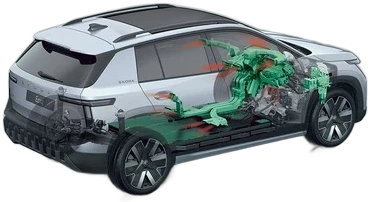
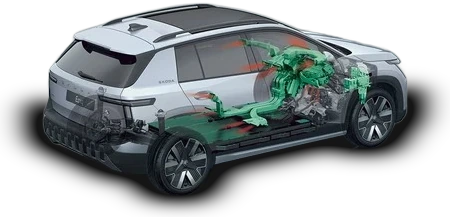
Epiq-Bilder: Bild 12 (Akku/Plattform) freigestellt; künstlicher Bodenschatten für 7–12 (nicht bei Maßbildern, Motor, Kofferraum); Karussell-Werte angepasst
Claude-Session: https://claude.ai/code/session_01AEp6y4YjJFmESYQ6H67tzx

diff --git a/app.js b/app.js
@@ -2738,8 +2738,8 @@ const HERO_IMGS = [{ name: 1, src: '/Bilder/Enyaq/hero/1.webp', aspect: 1.7188, 
   { name: 9, src: '/Bilder/Enyaq/hero/9.webp', aspect: 2.067, extra: 0, cut: true, pad: true }];   // pad: etwas Abstand links/rechts   // Schnittbild mit Maßen: Bemaßung hell umgefärbt, Auto freigestellt (volle Breite, zum Lesen antippen → Vollbild)
 /* Bilder je Fahrzeugprofil (ohne Eintrag: Enyaq-Bilder oben). Epiq: Bilder/Epiq/hero, aufbereitet mit tools/epiq_bilder.py */
 const EPQ = (n, aspect, o = {}) => ({ name: n, src: '/Bilder/Epiq/hero/' + n + '.webp', aspect, extra: 0, noHd: true, ...o });
-const CAR_HERO = { epiq55: [EPQ(2, 1.9536, { extra: 0.03 }), EPQ(9, 1.6176), EPQ(10, 2.4768), EPQ(11, 1.7839), EPQ(3, 1.1833, { cut: true }), EPQ(6, 1.9864, { cut: true }),
-  EPQ(1, 2.1814, { cut: true }), EPQ(5, 2.2, { pad: true }), EPQ(7, 1.8317, { tech: true }), EPQ(8, 1.7594, { tech: true }), EPQ(4, 1.3417, { tech: true })] };   // Reihenfolge im Karussell
+const CAR_HERO = { epiq55: [EPQ(2, 1.9536, { extra: 0.03 }), EPQ(9, 1.8603, { extra: 0.0754 }), EPQ(10, 2.6884, { extra: 0.0854 }), EPQ(11, 2.0326, { extra: 0.0793 }), EPQ(3, 1.1833, { cut: true }),
+  EPQ(6, 1.9864, { cut: true }), EPQ(1, 2.1814, { cut: true }), EPQ(5, 2.2, { pad: true }), EPQ(12, 1.5349, { tech: true }), EPQ(7, 2.0737, { tech: true }), EPQ(8, 1.9696, { tech: true }), EPQ(4, 1.3417, { tech: true })] };   // Reihenfolge im Karussell
 const carAutoN = () => { const v = Number(getSettings().carN); return Number.isInteger(v) && v >= 1 && v <= HERO_IMGS.length ? v : 6; };            // Einstellung: so viele Bilder wechseln automatisch
 const carAutoMs = () => { const v = Number(getSettings().carSec); return (Number.isFinite(v) && v >= 5 && v <= 600 ? v : 30) * 1000; };   // Bilder/Enyaq/Enyaq1, 2, _4 (Akku-Schnitt), 3, 4, 5 (unten bleiben 3 Punkte als Deko); automatischer Wechsel alle 30 Sekunden
 async function initCarousel() {

diff --git a/src/05-startseite-banner.js b/src/05-startseite-banner.js
@@ -128,8 +128,8 @@ const HERO_IMGS = [{ name: 1, src: '/Bilder/Enyaq/hero/1.webp', aspect: 1.7188, 
   { name: 9, src: '/Bilder/Enyaq/hero/9.webp', aspect: 2.067, extra: 0, cut: true, pad: true }];   // pad: etwas Abstand links/rechts   // Schnittbild mit Maßen: Bemaßung hell umgefärbt, Auto freigestellt (volle Breite, zum Lesen antippen → Vollbild)
 /* Bilder je Fahrzeugprofil (ohne Eintrag: Enyaq-Bilder oben). Epiq: Bilder/Epiq/hero, aufbereitet mit tools/epiq_bilder.py */
 const EPQ = (n, aspect, o = {}) => ({ name: n, src: '/Bilder/Epiq/hero/' + n + '.webp', aspect, extra: 0, noHd: true, ...o });
-const CAR_HERO = { epiq55: [EPQ(2, 1.9536, { extra: 0.03 }), EPQ(9, 1.6176), EPQ(10, 2.4768), EPQ(11, 1.7839), EPQ(3, 1.1833, { cut: true }), EPQ(6, 1.9864, { cut: true }),
-  EPQ(1, 2.1814, { cut: true }), EPQ(5, 2.2, { pad: true }), EPQ(7, 1.8317, { tech: true }), EPQ(8, 1.7594, { tech: true }), EPQ(4, 1.3417, { tech: true })] };   // Reihenfolge im Karussell
+const CAR_HERO = { epiq55: [EPQ(2, 1.9536, { extra: 0.03 }), EPQ(9, 1.8603, { extra: 0.0754 }), EPQ(10, 2.6884, { extra: 0.0854 }), EPQ(11, 2.0326, { extra: 0.0793 }), EPQ(3, 1.1833, { cut: true }),
+  EPQ(6, 1.9864, { cut: true }), EPQ(1, 2.1814, { cut: true }), EPQ(5, 2.2, { pad: true }), EPQ(12, 1.5349, { tech: true }), EPQ(7, 2.0737, { tech: true }), EPQ(8, 1.9696, { tech: true }), EPQ(4, 1.3417, { tech: true })] };   // Reihenfolge im Karussell
 const carAutoN = () => { const v = Number(getSettings().carN); return Number.isInteger(v) && v >= 1 && v <= HERO_IMGS.length ? v : 6; };            // Einstellung: so viele Bilder wechseln automatisch
 const carAutoMs = () => { const v = Number(getSettings().carSec); return (Number.isFinite(v) && v >= 5 && v <= 600 ? v : 30) * 1000; };   // Bilder/Enyaq/Enyaq1, 2, _4 (Akku-Schnitt), 3, 4, 5 (unten bleiben 3 Punkte als Deko); automatischer Wechsel alle 30 Sekunden
 async function initCarousel() {

diff --git a/index.html b/index.html
@@ -202,7 +202,7 @@
   @media (prefers-reduced-motion: reduce) { #bd-conf i, #bdg-conf i { animation: none; top: var(--y, 10%); } #bd-card, #bdg-card { animation: none; } }
 </style>
 <!-- Tailwind fertig gebaut (npm run css) – am Ende des Kopfs wie früher das CDN, damit die Reihenfolge der Regeln gleich bleibt -->
-<link rel="stylesheet" href="/app.css?v=243">
+<link rel="stylesheet" href="/app.css?v=244">
 </head>
 <body class="bg-black text-slate-100 min-h-screen">
 
@@ -1845,7 +1845,7 @@
   </div>
 </nav>
 
-<script src="/app.js?v=243"></script>   <!-- App-Logik: gebaut aus src/*.js (npm run js) -->
+<script src="/app.js?v=244"></script>   <!-- App-Logik: gebaut aus src/*.js (npm run js) -->
 <script type="module">
 /* Firebase (modular SDK). Die Konfiguration ist kein Geheimnis – geschützt wird über Auth + Firestore-Regeln. */
 import { initializeApp } from 'https://www.gstatic.com/firebasejs/10.14.1/firebase-app.js';

diff --git a/sw.js b/sw.js
@@ -5,11 +5,11 @@
  * - Die KI-Abfrage (/api/…) wird NIE gecacht und läuft immer übers Netz.
  * Bei größeren Änderungen am Cache-Konzept CACHE_VERSION erhöhen. */
 
-const CACHE_VERSION = 'v243';
+const CACHE_VERSION = 'v244';
 const CACHE_NAME = 'enyaq-' + CACHE_VERSION;
 
 // Dateien, die beim Installieren vorab geladen werden
-const SAME_ORIGIN_ASSETS = ['./', './index.html', './app.css?v=243', './app.js?v=243', './Bilder/Enyaq/hero/1.webp'];
+const SAME_ORIGIN_ASSETS = ['./', './index.html', './app.css?v=244', './app.js?v=244', './Bilder/Enyaq/hero/1.webp'];
 const CDN_ASSETS = [
   'https://cdn.jsdelivr.net/npm/chart.js@4.4.3/dist/chart.umd.min.js'
 ];

diff --git a/tools/epiq_bilder.py b/tools/epiq_bilder.py
@@ -3,6 +3,7 @@ Originale liegen als Bilder/Epiq/EpiqN-original.* daneben. Arten:
   alpha  – Original hat schon Transparenz: nur zuschneiden
   rembg  – Foto mit Hintergrund: Auto per KI freistellen (rembg, Modell isnet-general-use), Schatten/Umgebung fallen weg
   masse  – Maßzeichnung: Auto bleibt, Bemaßung (Linien, Pfeile, Zahlen) außerhalb des Autos wird hell (#e2e8f0), Weiß wird durchsichtig
+  +shadow – zusätzlich weicher schwarzer Bodenschatten unter dem Auto (wie bei Bild 2), nicht bei Maßbildern/Motor/abgeschnittenen Bildern
 Aufruf: python3 tools/epiq_bilder.py            (alle)   |   python3 tools/epiq_bilder.py 5 6   (nur diese Nummern)
 Benötigt: pip install rembg onnxruntime scipy pillow numpy   (Modell wird beim ersten Lauf geladen)
 Danach Seitenverhältnisse in CAR_HERO (src/05-startseite-banner.js) übernehmen – das Skript gibt sie aus."""
@@ -13,7 +14,7 @@ from scipy import ndimage as nd
 
 D = 'Bilder/Epiq/'
 LIGHT = np.array([226, 232, 240.])
-JOBS = {1: 'masse_alpha', 2: 'alpha', 3: 'rembg', 4: 'alpha', 5: 'masse', 6: 'masse', 7: 'rembg', 8: 'rembg', 9: 'rembg', 10: 'rembg', 11: 'rembg'}
+JOBS = {1: 'masse_alpha', 2: 'alpha', 3: 'rembg', 4: 'alpha', 5: 'masse', 6: 'masse', 7: 'rembg+shadow', 8: 'rembg+shadow', 9: 'rembg+shadow', 10: 'rembg+shadow', 11: 'rembg+shadow', 12: 'rembg+shadow'}
 _sess = None
 def rembg_alpha(im):
     global _sess
@@ -25,6 +26,24 @@ def car_mask(a, k=9):
     m = nd.binary_opening(a > 128, structure=np.ones((k, k)))
     lab, n = nd.label(m); sz = nd.sum(m, lab, range(1, n + 1)); m = np.isin(lab, 1 + np.where(sz > 0.02 * m.size)[0])
     return nd.binary_dilation(nd.binary_fill_holes(nd.binary_closing(m, structure=np.ones((9, 9)))), iterations=2)
+def add_shadow(o):
+    """Bodenschatten aus der Unterkante des Autos: je Spalte der unterste Pixel; ein Band darüber/darunter wird weich (groß) und
+    knapp (Kontaktschatten unter den Reifen) unscharf gezeichnet und hinter das Auto gelegt. Gibt (Bild, Anteil Schatten unter dem Auto) zurück."""
+    H, W = o.shape[:2]; px, py = int(W * 0.05), int(H * 0.08)
+    big = np.zeros((H + 2 * py, W + 2 * px, 4)); big[py:py + H, px:px + W] = o; a = big[:, :, 3] > 128
+    cols = np.where(a.any(axis=0))[0]; yb = np.full(big.shape[1], -1)
+    for x in cols: yb[x] = np.where(a[:, x])[0].max()
+    hh = H * 0.05; band_s = np.zeros(a.shape); band_c = np.zeros(a.shape)
+    yy = np.arange(a.shape[0])[:, None]; ok = yb >= 0
+    band_s[:, ok] = ((yy >= yb[ok] - hh) & (yy <= yb[ok] + H * 0.012)).astype(float)
+    band_c[:, ok] = ((yy >= yb[ok] - H * 0.012) & (yy <= yb[ok] + H * 0.004)).astype(float)
+    soft = nd.gaussian_filter(nd.grey_dilation(band_s, size=(1, int(W * 0.04) | 1)), sigma=(H * 0.018, W * 0.02)) * 0.85
+    cont = nd.gaussian_filter(band_c, sigma=max(1.5, W * 0.004)) * 0.95
+    sh = np.clip(np.maximum(soft, cont) * 1.6, 0, 0.92)
+    al = big[:, :, 3] / 255; out = np.zeros_like(big)
+    out[:, :, 3] = (al + sh * (1 - al)) * 255
+    out[:, :, :3] = np.where(al[:, :, None] > 0, big[:, :, :3] * (al / np.maximum(out[:, :, 3] / 255, 1e-6))[:, :, None], 0)
+    return out, yb.max()
 def process(n, kind):
     src = glob.glob(f'{D}Epiq{n}-original.*')[0]; im = Image.open(src).convert('RGBA'); o = np.array(im).astype(float)
     if kind == 'masse_alpha':                                            # Epiq1: Original schon transparent, Bemaßung dunkel
@@ -34,14 +53,17 @@ def process(n, kind):
         dark = 1 - o[:, :, :3].mean(axis=2) / 255                        # wie dunkel ein Pixel ist = wie sichtbar die Linie
         o[:, :, 3] = np.where(car, 255, np.clip((dark - 0.08) / 0.5, 0, 1) * 255)
         o[~car, :3] = LIGHT
-    elif kind == 'rembg':
+    elif kind.startswith('rembg'):
         o[:, :, 3] = rembg_alpha(im)
+    ground = None
+    if kind.endswith('+shadow'): o, ground = add_shadow(o)
     out = Image.fromarray(o.clip(0, 255).astype(np.uint8), 'RGBA'); ys, xs = np.where(o[:, :, 3] > 12)
-    out = out.crop((max(0, xs.min() - 2), max(0, ys.min() - 2), xs.max() + 3, ys.max() + 3))
+    box = (max(0, xs.min() - 2), max(0, ys.min() - 2), xs.max() + 3, ys.max() + 3); out = out.crop(box)
+    extra = round((box[3] - 1 - ground) / out.height, 4) if ground is not None else 0
     out.save(f'{D}Epiq{n}.webp', 'WEBP', quality=92, method=6)
     os.makedirs(D + 'hero', exist_ok=True); w = min(1100, out.width)
     out.resize((w, round(out.height * w / out.width)), Image.LANCZOS).save(f'{D}hero/{n}.webp', 'WEBP', quality=88, method=6)
-    print(n, kind, out.size, 'aspect', round(out.width / out.height, 4))
+    print(n, kind, out.size, 'aspect', round(out.width / out.height, 4), 'extra', extra)
 
 for n in [int(x) for x in sys.argv[1:]] or sorted(JOBS):
     process(n, JOBS[n])

diff --git a/Bilder/Epiq/LIESMICH.md b/Bilder/Epiq/LIESMICH.md
@@ -16,6 +16,9 @@ Aufbereiten: `python3 tools/epiq_bilder.py` (alle) oder mit Nummern; Art je Bild
 | 9 | Schräg vorne (Straße) | freigestellt |
 | 10 | Seite (Straße) | freigestellt |
 | 11 | Schräg hinten (Straße) | freigestellt |
+| 12 | Akku/Plattform (Röntgen) | freigestellt |
+
+Bodenschatten (künstlich, wie bei Bild 2): 7–12. Nicht bei Maßbildern, Motor und Kofferraum (unten abgeschnitten).
 
 Reihenfolge und Darstellung im Karussell: `CAR_HERO` in `src/05-startseite-banner.js`.
 Gemeinsame Bilder (Icons, Wetter, Statistik, Fahrzeugakte) bleiben direkt in `Bilder/`.
